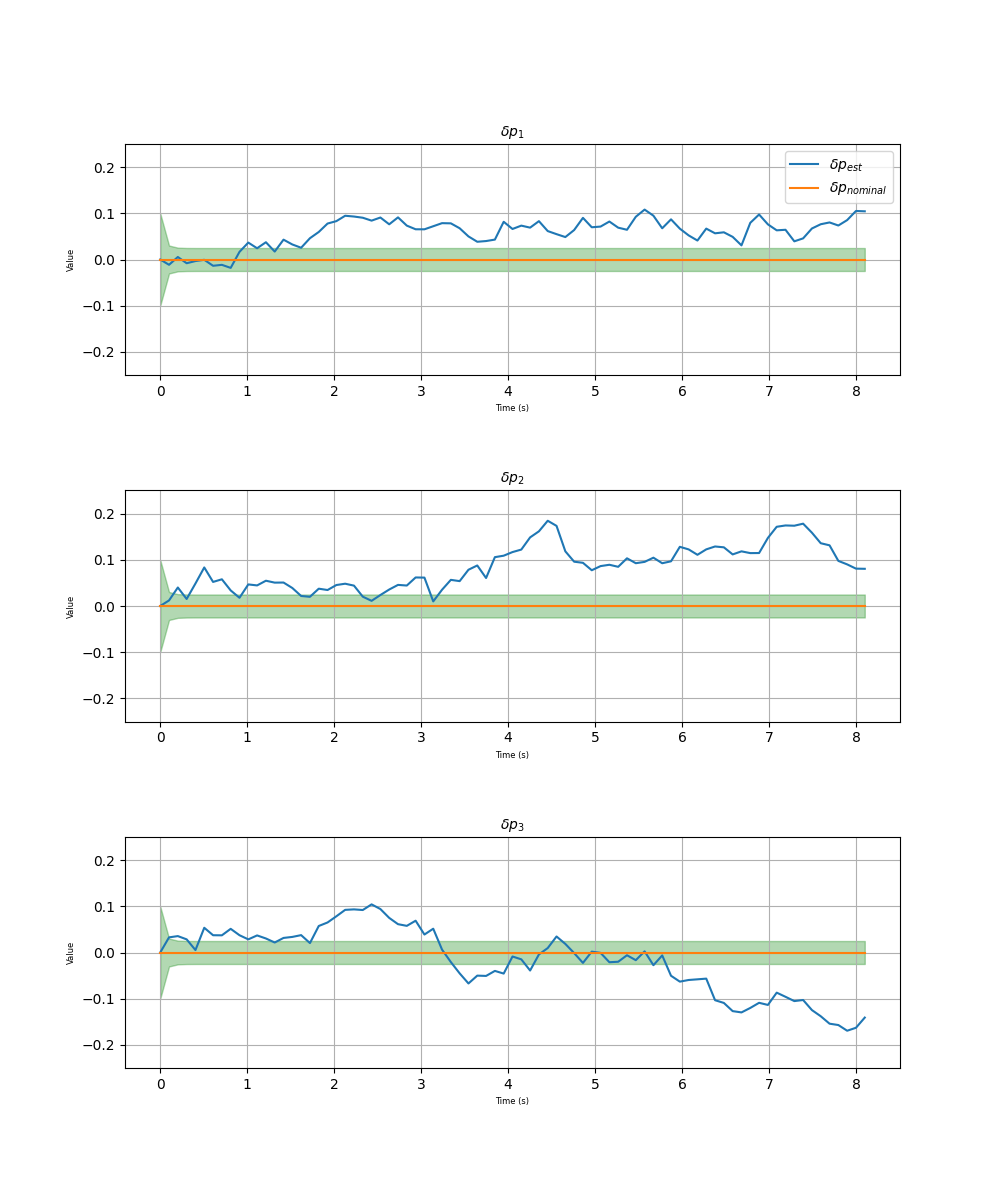
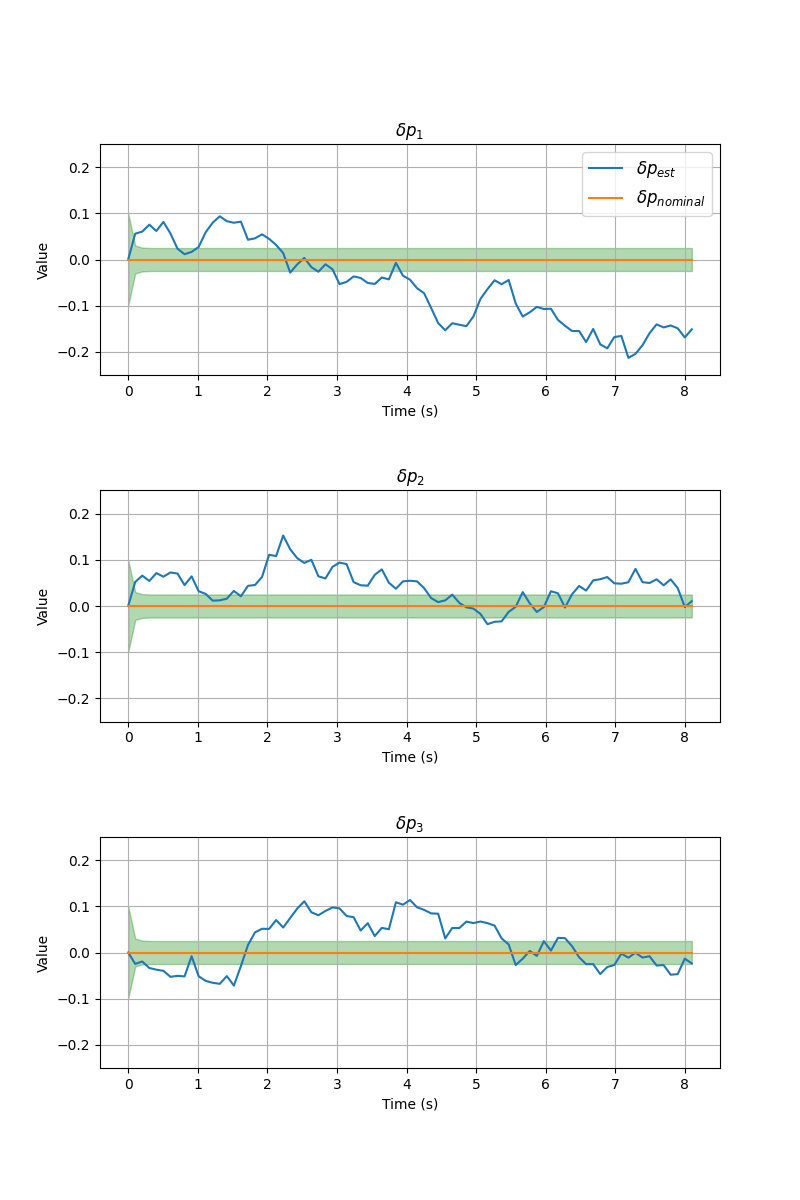
Updated plots

diff --git a/pose_estimation/plotter.py b/pose_estimation/plotter.py
@@ -18,27 +18,27 @@ def MRP_error_band(omega, true_omega, mrp, covariance, dt):
     n = omega.shape[0]  # Number of time steps
     t_vals = np.linspace(0, n*dt, n)
 
-    fig, axs = plt.subplots(3, 1, figsize=(10, 12))
-    fig2, axs2 = plt.subplots(3, 1, figsize=(10, 12))
+    fig, axs = plt.subplots(3, 1, figsize=(8, 12))
+    fig2, axs2 = plt.subplots(3, 1, figsize=(8, 12))
     plt.subplots_adjust(hspace=0.5)
     for i in range(3):
         # Plot omega
         axs[i].plot(t_vals, omega[:, i], label=r'Estimated $\omega$')
         axs[i].plot(t_vals, true_omega[:, i], label=r'Nominal $\omega$')
-        axs[i].set_title(rf'$\omega_{i+1}$', fontsize=10)
-        axs[i].set_xlabel('Time (s)', fontsize=6)
-        axs[i].set_ylabel('Value', fontsize=6)
+        axs[i].set_title(rf'$\omega_{i+1}$', fontsize=12)
+        axs[i].set_xlabel('Time (s)', fontsize=10)
+        axs[i].set_ylabel('Value', fontsize=10)
 
         # Plot mrp
         axs2[i].plot(t_vals, mrp[:, i], label=r'$\delta p_{est}$')
         axs2[i].plot(t_vals, np.zeros((n)), label=r'$\delta p_{nominal}$')
-        axs2[i].set_title(rf'$\delta p_{i+1}$', fontsize=10)
-        axs2[i].set_xlabel('Time (s)', fontsize=6)
-        axs2[i].set_ylabel('Value', fontsize=6)
+        axs2[i].set_title(rf'$\delta p_{i+1}$', fontsize=12)
+        axs2[i].set_xlabel('Time (s)', fontsize=10)
+        axs2[i].set_ylabel('Value', fontsize=10)
         axs2[i].set_ylim((-0.25, 0.25))
 
-    axs[0].legend()
-    axs2[0].legend()
+    axs[0].legend(fontsize=12)
+    axs2[0].legend(fontsize=12)
     # Plot covariance error bands
     std_vals = np.zeros((n, 6))
     for i in range(n):

diff --git a/integrated_run.py b/integrated_run.py
@@ -89,4 +89,6 @@ if __name__ == "__main__":
     fig2, fig3 = MRP_error_band(xest_hist[:, 4:], qw_r[:,4:], final_mrp, Pest_hist, dt)
     fig2.savefig('omega_result_plot_vision_enhanced.png')
     fig3.savefig('mrp_result_plot_vision_enhanced.png')
+    # fig2.savefig('omega_result_plot_vision_denied.png')
+    # fig3.savefig('mrp_result_plot_vision_denied.png')
     plt.show()
